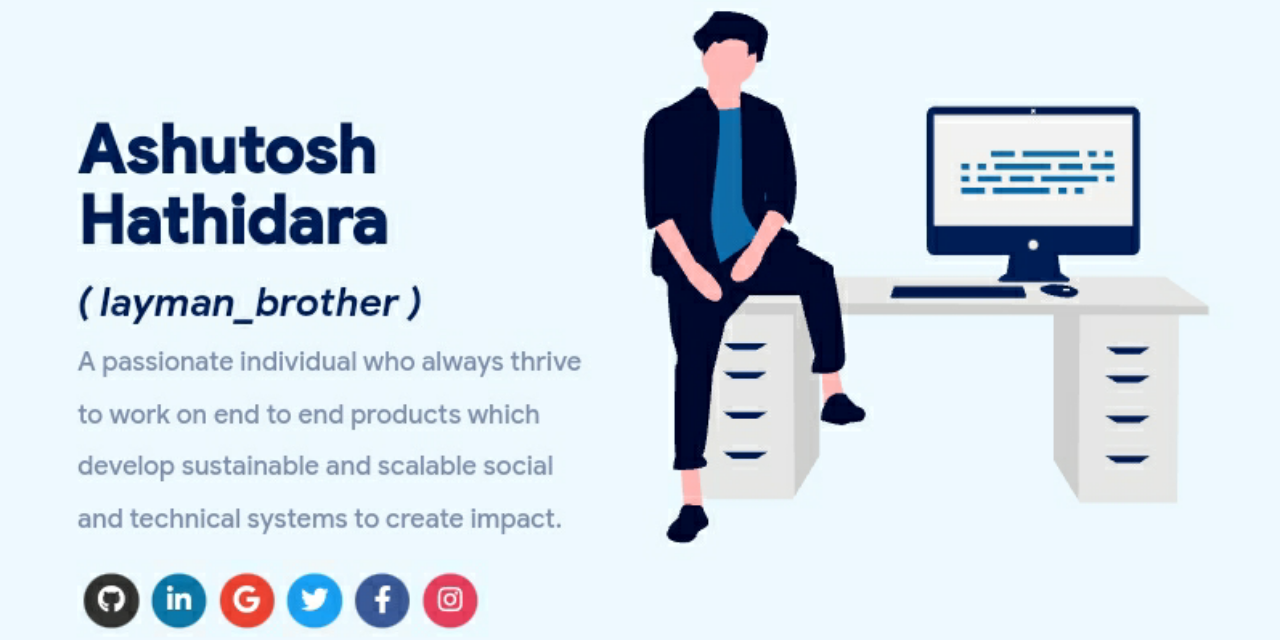
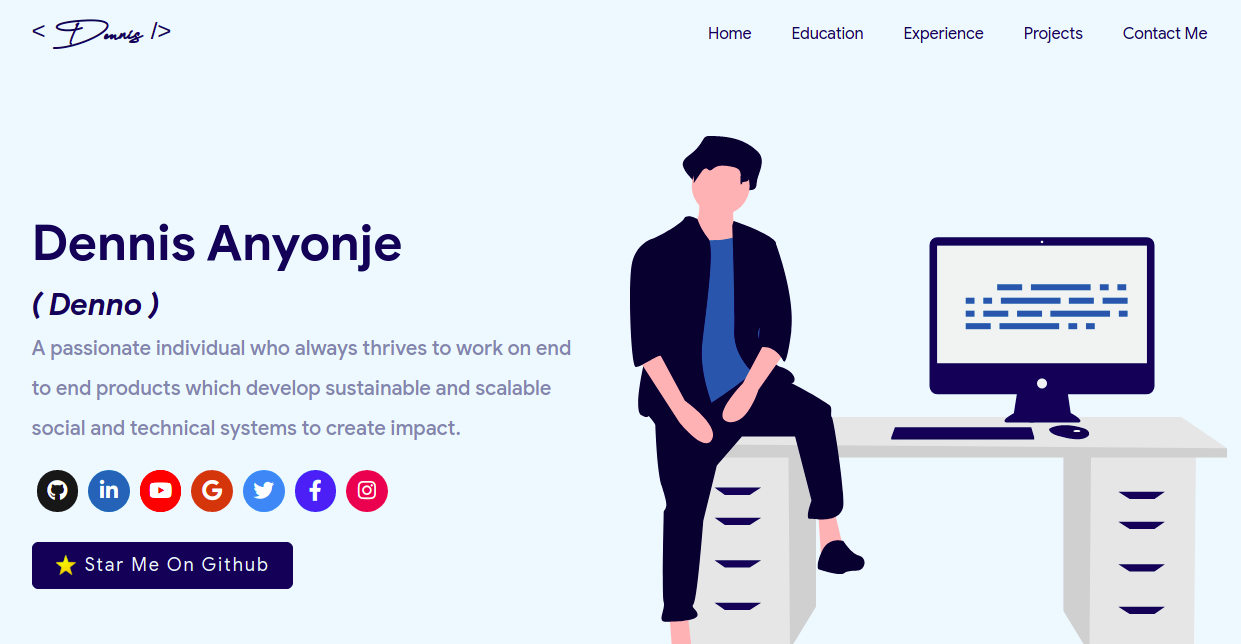
Updates

diff --git a/index.html b/index.html
@@ -1,1 +1,1 @@
-<!doctype html><html lang="en"><head><meta charset="utf-8"/><meta name="viewport" content="width=device-width,initial-scale=1"/><meta name="Dennis's Portfolio" content="Portfolio content"/><meta property="og:title" content="Ashutosh Hathidara Portfolio"/><meta property="og:type" content="website"/><meta property="og:url" content="https://ashutosh1919.github.io/"/><meta name="description" content="Ashutosh's Personal Portfolio Website" property="og:description"><meta name="description" content="/icons/desc.png" property="og:image"><meta name="keywords" content="Ashutosh, PortFolio, MasterPortfolio, Ashutosh's Portfolio"/><meta name="author" content="Ashutosh"/><meta name="application-name" content="Ashutosh's PortFolio"/><link rel="apple-touch-icon" sizes="57x57" href="/icons/apple-icon-57x57.png"><link rel="apple-touch-icon" sizes="60x60" href="/icons/apple-icon-60x60.png"><link rel="apple-touch-icon" sizes="72x72" href="/icons/apple-icon-72x72.png"><link rel="apple-touch-icon" sizes="76x76" href="/icons/apple-icon-76x76.png"><link rel="apple-touch-icon" sizes="114x114" href="/icons/apple-icon-114x114.png"><link rel="apple-touch-icon" sizes="120x120" href="/icons/apple-icon-120x120.png"><link rel="apple-touch-icon" sizes="144x144" href="/icons/apple-icon-144x144.png"><link rel="apple-touch-icon" sizes="152x152" href="/icons/apple-icon-152x152.png"><link rel="apple-touch-icon" sizes="180x180" href="/icons/apple-icon-180x180.png"><link rel="icon" type="image/png" sizes="192x192" href="/icons//android-icon-192x192.png"><link rel="icon" type="image/png" sizes="32x32" href="/icons/favicon-32x32.png"><link rel="icon" type="image/png" sizes="96x96" href="/icons/favicon-96x96.png"><link rel="icon" type="image/png" sizes="16x16" href="/icons/favicon-16x16.png"><link rel="manifest" href="/manifest.json"><meta name="msapplication-TileColor" content="#ffffff"><meta name="msapplication-TileImage" content="/icons/ms-icon-144x144.png"><meta name="theme-color" content="#000000"><script async src="https://pagead2.googlesyndication.com/pagead/js/adsbygoogle.js"></script><script>(adsbygoogle=window.adsbygoogle||[]).push({google_ad_client:"ca-pub-8856447829714090",enable_page_level_ads:!0})</script><script async src="https://www.googletagmanager.com/gtag/js?id=AW-825508380"></script><script>function gtag(){dataLayer.push(arguments)}window.dataLayer=window.dataLayer||[],gtag("js",new Date),gtag("config","AW-825508380")</script><script async src="https://www.googletagmanager.com/gtag/js?id=UA-158726526-1"></script><script>function gtag(){dataLayer.push(arguments)}window.dataLayer=window.dataLayer||[],gtag("js",new Date),gtag("config","UA-158726526-1")</script><link rel="manifest" href="/manifest.json"/><link rel="stylesheet" href="https://cdnjs.cloudflare.com/ajax/libs/font-awesome/4.7.0/css/font-awesome.min.css"/><script src="https://code.iconify.design/1/1.0.4/iconify.min.js"></script><script src="https://cdnjs.cloudflare.com/ajax/libs/animejs/2.0.2/anime.js"></script><script src="https://cdnjs.cloudflare.com/ajax/libs/canvasjs/1.7.0/canvasjs.min.js"></script><title>Dennis's Portfolio</title><link href="/static/css/main.5c3c24ef.chunk.css" rel="stylesheet"></head><body><noscript>You need to enable JavaScript to run this app.</noscript><div id="root"></div><script>!function(i){function e(e){for(var r,t,n=e[0],o=e[1],u=e[2],l=0,f=[];l<n.length;l++)t=n[l],Object.prototype.hasOwnProperty.call(p,t)&&p[t]&&f.push(p[t][0]),p[t]=0;for(r in o)Object.prototype.hasOwnProperty.call(o,r)&&(i[r]=o[r]);for(s&&s(e);f.length;)f.shift()();return c.push.apply(c,u||[]),a()}function a(){for(var e,r=0;r<c.length;r++){for(var t=c[r],n=!0,o=1;o<t.length;o++){var u=t[o];0!==p[u]&&(n=!1)}n&&(c.splice(r--,1),e=l(l.s=t[0]))}return e}var t={},p={1:0},c=[];function l(e){if(t[e])return t[e].exports;var r=t[e]={i:e,l:!1,exports:{}};return i[e].call(r.exports,r,r.exports,l),r.l=!0,r.exports}l.m=i,l.c=t,l.d=function(e,r,t){l.o(e,r)||Object.defineProperty(e,r,{enumerable:!0,get:t})},l.r=function(e){"undefined"!=typeof Symbol&&Symbol.toStringTag&&Object.defineProperty(e,Symbol.toStringTag,{value:"Module"}),Object.defineProperty(e,"__esModule",{value:!0})},l.t=function(r,e){if(1&e&&(r=l(r)),8&e)return r;if(4&e&&"object"==typeof r&&r&&r.__esModule)return r;var t=Object.create(null);if(l.r(t),Object.defineProperty(t,"default",{enumerable:!0,value:r}),2&e&&"string"!=typeof r)for(var n in r)l.d(t,n,function(e){return r[e]}.bind(null,n));return t},l.n=function(e){var r=e&&e.__esModule?function(){return e.default}:function(){return e};return l.d(r,"a",r),r},l.o=function(e,r){return Object.prototype.hasOwnProperty.call(e,r)},l.p="/";var r=this.webpackJsonpmasterPortfolio=this.webpackJsonpmasterPortfolio||[],n=r.push.bind(r);r.push=e,r=r.slice();for(var o=0;o<r.length;o++)e(r[o]);var s=n;a()}([])</script><script src="/static/js/2.efed0d90.chunk.js"></script><script src="/static/js/main.f612bcad.chunk.js"></script></body></html>
+<!doctype html><html lang="en"><head><meta charset="utf-8"/><meta name="viewport" content="width=device-width,initial-scale=1"/><meta name="Dennis's Portfolio" content="Portfolio content"/><meta property="og:title" content="Dennis Anyonje Portfolio"/><meta property="og:type" content="website"/><meta property="og:url" content="https://Denno31.github.io/"/><meta name="description" content="Dennis's Personal Portfolio Website" property="og:description"><meta name="description" content="/icons/desc.png" property="og:image"><meta name="keywords" content="Dennis, PortFolio, MasterPortfolio, Dennis's Portfolio"/><meta name="author" content="Dennis"/><meta name="application-name" content="Dennis's PortFolio"/><link rel="apple-touch-icon" sizes="57x57" href="/icons/apple-icon-57x57.png"><link rel="apple-touch-icon" sizes="60x60" href="/icons/apple-icon-60x60.png"><link rel="apple-touch-icon" sizes="72x72" href="/icons/apple-icon-72x72.png"><link rel="apple-touch-icon" sizes="76x76" href="/icons/apple-icon-76x76.png"><link rel="apple-touch-icon" sizes="114x114" href="/icons/apple-icon-114x114.png"><link rel="apple-touch-icon" sizes="120x120" href="/icons/apple-icon-120x120.png"><link rel="apple-touch-icon" sizes="144x144" href="/icons/apple-icon-144x144.png"><link rel="apple-touch-icon" sizes="152x152" href="/icons/apple-icon-152x152.png"><link rel="apple-touch-icon" sizes="180x180" href="/icons/apple-icon-180x180.png"><link rel="icon" type="image/png" sizes="192x192" href="/icons//android-icon-192x192.png"><link rel="icon" type="image/png" sizes="32x32" href="/icons/favicon-32x32.png"><link rel="icon" type="image/png" sizes="96x96" href="/icons/favicon-96x96.png"><link rel="icon" type="image/png" sizes="16x16" href="/icons/favicon-16x16.png"><link rel="manifest" href="/manifest.json"><meta name="msapplication-TileColor" content="#ffffff"><meta name="msapplication-TileImage" content="/icons/ms-icon-144x144.png"><meta name="theme-color" content="#000000"><script async src="https://pagead2.googlesyndication.com/pagead/js/adsbygoogle.js"></script><script>(adsbygoogle=window.adsbygoogle||[]).push({google_ad_client:"ca-pub-8856447829714090",enable_page_level_ads:!0})</script><script async src="https://www.googletagmanager.com/gtag/js?id=AW-825508380"></script><script>function gtag(){dataLayer.push(arguments)}window.dataLayer=window.dataLayer||[],gtag("js",new Date),gtag("config","AW-825508380")</script><script async src="https://www.googletagmanager.com/gtag/js?id=UA-158726526-1"></script><script>function gtag(){dataLayer.push(arguments)}window.dataLayer=window.dataLayer||[],gtag("js",new Date),gtag("config","UA-158726526-1")</script><link rel="manifest" href="/manifest.json"/><link rel="stylesheet" href="https://cdnjs.cloudflare.com/ajax/libs/font-awesome/4.7.0/css/font-awesome.min.css"/><script src="https://code.iconify.design/1/1.0.4/iconify.min.js"></script><script src="https://cdnjs.cloudflare.com/ajax/libs/animejs/2.0.2/anime.js"></script><script src="https://cdnjs.cloudflare.com/ajax/libs/canvasjs/1.7.0/canvasjs.min.js"></script><title>Dennis's Portfolio</title><link href="/static/css/main.5c3c24ef.chunk.css" rel="stylesheet"></head><body><noscript>You need to enable JavaScript to run this app.</noscript><div id="root"></div><script>!function(i){function e(e){for(var r,t,n=e[0],o=e[1],u=e[2],l=0,f=[];l<n.length;l++)t=n[l],Object.prototype.hasOwnProperty.call(p,t)&&p[t]&&f.push(p[t][0]),p[t]=0;for(r in o)Object.prototype.hasOwnProperty.call(o,r)&&(i[r]=o[r]);for(s&&s(e);f.length;)f.shift()();return c.push.apply(c,u||[]),a()}function a(){for(var e,r=0;r<c.length;r++){for(var t=c[r],n=!0,o=1;o<t.length;o++){var u=t[o];0!==p[u]&&(n=!1)}n&&(c.splice(r--,1),e=l(l.s=t[0]))}return e}var t={},p={1:0},c=[];function l(e){if(t[e])return t[e].exports;var r=t[e]={i:e,l:!1,exports:{}};return i[e].call(r.exports,r,r.exports,l),r.l=!0,r.exports}l.m=i,l.c=t,l.d=function(e,r,t){l.o(e,r)||Object.defineProperty(e,r,{enumerable:!0,get:t})},l.r=function(e){"undefined"!=typeof Symbol&&Symbol.toStringTag&&Object.defineProperty(e,Symbol.toStringTag,{value:"Module"}),Object.defineProperty(e,"__esModule",{value:!0})},l.t=function(r,e){if(1&e&&(r=l(r)),8&e)return r;if(4&e&&"object"==typeof r&&r&&r.__esModule)return r;var t=Object.create(null);if(l.r(t),Object.defineProperty(t,"default",{enumerable:!0,value:r}),2&e&&"string"!=typeof r)for(var n in r)l.d(t,n,function(e){return r[e]}.bind(null,n));return t},l.n=function(e){var r=e&&e.__esModule?function(){return e.default}:function(){return e};return l.d(r,"a",r),r},l.o=function(e,r){return Object.prototype.hasOwnProperty.call(e,r)},l.p="/";var r=this.webpackJsonpmasterPortfolio=this.webpackJsonpmasterPortfolio||[],n=r.push.bind(r);r.push=e,r=r.slice();for(var o=0;o<r.length;o++)e(r[o]);var s=n;a()}([])</script><script src="/static/js/2.efed0d90.chunk.js"></script><script src="/static/js/main.f612bcad.chunk.js"></script></body></html>

diff --git a/service-worker.js b/service-worker.js
@@ -14,7 +14,7 @@
 importScripts("https://storage.googleapis.com/workbox-cdn/releases/4.3.1/workbox-sw.js");
 
 importScripts(
-  "/precache-manifest.00347dd4b65e41b3cbc4a94b37121c0e.js"
+  "/precache-manifest.386ebb068a07bfb8d808ec1246a3834e.js"
 );
 
 self.addEventListener('message', (event) => {

diff --git a/precache-manifest.386ebb068a07bfb8d808ec1246a3834e.js b/precache-manifest.386ebb068a07bfb8d808ec1246a3834e.js
@@ -1,6 +1,6 @@
 self.__precacheManifest = (self.__precacheManifest || []).concat([
   {
-    "revision": "163f4caef7c8f613776a42e98eab5cb9",
+    "revision": "ac9ce5eb193c698f62a0c93b18063c7f",
     "url": "/index.html"
   },
   {
